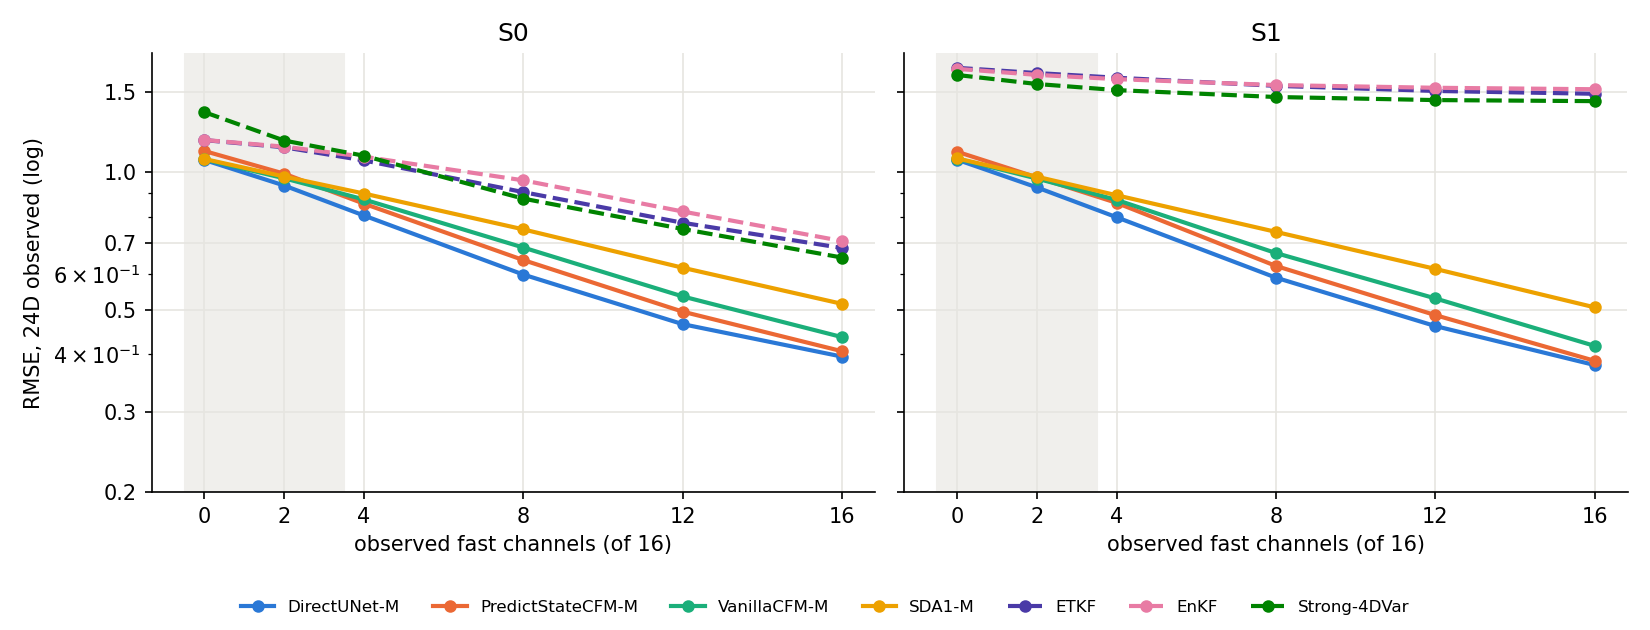
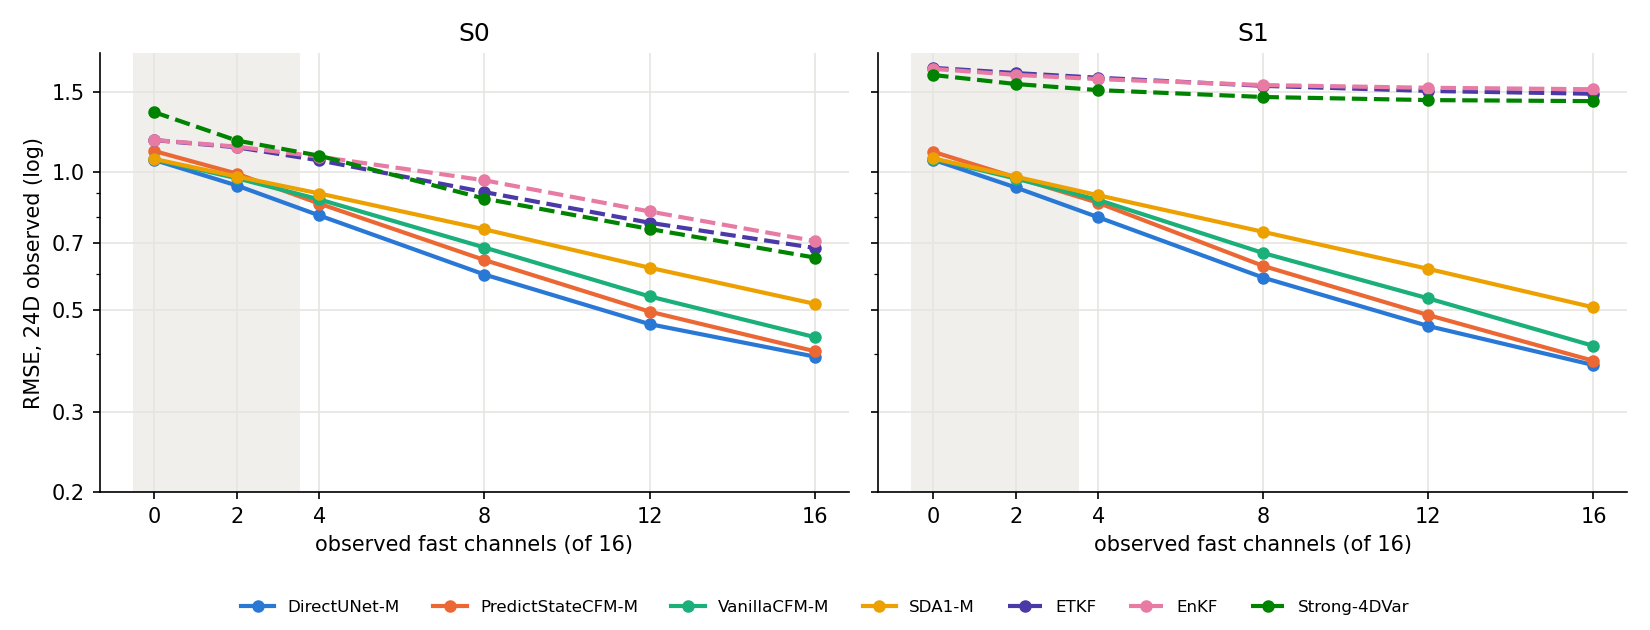
docs(l96): finalize extended benchmark report (3-seed 1200-epoch rows, 1200-epoch-mean hybrid)

diff --git a/reports/l96/generate_l96_benchmark_extended_report.py b/reports/l96/generate_l96_benchmark_extended_report.py
@@ -438,7 +438,10 @@ def tuning_section(cache: dict) -> list[str]:
                                                          else '—' for g in gws) + " |")
         du12 = V / rg / "du_alone/L96B_directunet_monaiM_ep1200_seed1"
         if done(du12):
-            A.append(f"\nWith the 1200-epoch DirectUNet-M (alone {fmt(mean2(du12))}), SDA2-M prior:\n")
+            A.append(f"\nWith the 1200-epoch DirectUNet-M (alone {fmt(mean2(du12))}), SDA2-M prior. **tau0 0.05 is not a "
+                     "warm start**: the sampler snaps tau0 to its 10-step grid with `round(tau0 * N_outer)`, and 0.5 "
+                     "rounds to 0, so that row is plain SDA from noise at a far-too-low guidance weight (the tuned SDA "
+                     "weight is 25).\n")
             gws2 = ["1", "2", "5"]
             A += ["| tau0 | " + " | ".join(f"gw {g}" for g in gws2) + " |", "|" + "---|" * 4]
             for t in ("0.05", "0.1", "0.2"):
@@ -490,11 +493,15 @@ def findings(da, learned) -> list[str]:
     row = {(r["group"], r["label"]): r for r in learned}
     m = lambda g, lab, t, c="s0": None if row[(g, lab)][t] is None else float(row[(g, lab)][t][c]["rmse"].mean())  # noqa: E731
     best_da = min(da, key=lambda r: r["reg"]["s0"]["rmse"].mean())
-    h = ("Hybrid (tau0 0.1, gw 2)", "DirectUNet-M(400 ep) -> SDA2-M")
+    h4 = ("Hybrid (tau0 0.1, gw 2)", "DirectUNet-M(400 ep) -> SDA2-M")
+    h12 = ("Hybrid (tau0 0.1, gw 2)", "DirectUNet-M(1200 ep) -> SDA2-M")
+    h = h12 if row[h12]["reg"] is not None and row[h12]["can"] is not None else h4
     A = ["## Findings\n"]
-    A.append(f"1. **Best scheme: the DirectUNet-M -> SDA2-M hybrid** (validation-selected tau0 0.1, gw 2): regular S0 "
-             f"{fmt(m(*h, 'reg'))}, random S0 {fmt(m(*h, 'can'))}, CRPS {fmt(row[h]['reg']['s0']['crps'])} / {fmt(row[h]['can']['s0']['crps'])}. "
-             f"Best DA on regular S0: {best_da['label']} {best_da['reg']['s0']['rmse'].mean():.3f}.")
+    A.append(f"1. **Best scheme: the DirectUNet-M -> SDA2-M hybrid** (validation-selected tau0 0.1, gw 2), with the "
+             f"{'1200' if h == h12 else '400'}-epoch DirectUNet-M as its mean: regular S0 {fmt(m(*h, 'reg'))}, random S0 "
+             f"{fmt(m(*h, 'can'))}, CRPS {fmt(row[h]['reg']['s0']['crps'])} / {fmt(row[h]['can']['s0']['crps'])} -- best RMSE and "
+             f"CRPS on both test sets (400-epoch mean: {fmt(m(*h4, 'reg'))} / {fmt(m(*h4, 'can'))}). A better mean carries "
+             f"straight through the SDA correction. Best DA on regular S0: {best_da['label']} {best_da['reg']['s0']['rmse'].mean():.3f}.")
     A.append("2. **The 400-epoch budget of the benchmark default is too short.** At 1200 epochs every family gains 9-19% "
              f"(regular S0: DirectUNet {fmt(m('Benchmark default, 400 ep', 'DirectUNet-M', 'reg'))} -> {fmt(m('Benchmark default, 1200 ep', 'DirectUNet-M', 'reg'))}, "
              f"PredictStateCFM {fmt(m('Benchmark default, 400 ep', 'PredictStateCFM-M', 'reg'))} -> {fmt(m('Benchmark default, 1200 ep', 'PredictStateCFM-M', 'reg'))}, "

diff --git a/reports/l96/outputs/l96_benchmark_extended.md b/reports/l96/outputs/l96_benchmark_extended.md
@@ -6,8 +6,8 @@ Follow-up to `l96_benchmark_default.md`, same inputs: the 200 P1 test windows on
 
 ## Findings
 
-1. **Best scheme: the DirectUNet-M -> SDA2-M hybrid** (validation-selected tau0 0.1, gw 2): regular S0 0.329, random S0 0.406, CRPS 0.153 / 0.184. Best DA on regular S0: ETKF 0.687.
-2. **The 400-epoch budget of the benchmark default is too short.** At 1200 epochs every family gains 9-19% (regular S0: DirectUNet 0.380 -> 0.340, PredictStateCFM 0.409 -> 0.345, VanillaCFM 0.434 -> 0.353), and the family gaps largely close; ~85% of the 3000-window DirectUNet gain is training length, not data.
+1. **Best scheme: the DirectUNet-M -> SDA2-M hybrid** (validation-selected tau0 0.1, gw 2), with the 1200-epoch DirectUNet-M as its mean: regular S0 0.310, random S0 0.382, CRPS 0.144 / 0.174 -- best RMSE and CRPS on both test sets (400-epoch mean: 0.329 / 0.406). A better mean carries straight through the SDA correction. Best DA on regular S0: ETKF 0.687.
+2. **The 400-epoch budget of the benchmark default is too short.** At 1200 epochs every family gains 9-19% (regular S0: DirectUNet 0.380 -> 0.340, PredictStateCFM 0.409 -> 0.345, VanillaCFM 0.434 -> 0.354), and the family gaps largely close; ~85% of the 3000-window DirectUNet gain is training length, not data.
 3. **Observation-count crossover at S0**: DA (ETKF) is best at <= 10 obs per window; from ~20 obs every learned scheme beats every DA baseline, and the gap grows with density. Under model error (S1) the learned schemes win at every density. PredictStateCFM / SDA are best when sparse, DirectUNet when dense; SDA and DirectUNet are complementary, which is why the hybrid works.
 4. **Fast channels**: no crossover -- learned beat DA at every k, including slow-only (k 0, below training range). The learned slow-variable error is flat (~0.2-0.3); all the k-dependence is in the fast variables. Under model error, more fast obs make DA's *slow* variables worse (biased slow-fast coupling).
 5. **Beyond the training range**: learned models are weak at 6 obs and degrade with 1000 obs (DirectUNet 0.17 -> 0.34 from 300 to 1000); VanillaCFM degrades least. Noise shifts are handled gracefully.
@@ -28,7 +28,7 @@ Per-window RMSE on the 24D observed space, **mean ± sd across the 200 windows**
 | Benchmark default, 400 ep | VanillaCFM-M | 3/3 | 0.434 ± 0.074 | 0.431 ± 0.072 | 0.543 ± 0.289 | 0.553 ± 0.263 | 1.25 | 0.006 |
 | Benchmark default, 1200 ep | DirectUNet-M | 3/3 | 0.340 ± 0.062 | 0.339 ± 0.063 | 0.450 ± 0.315 | 0.444 ± 0.269 | 1.32 | 0.002 |
 | Benchmark default, 1200 ep | PredictStateCFM-M | 3/3 | 0.345 ± 0.079 | 0.342 ± 0.080 | 0.452 ± 0.264 | 0.456 ± 0.238 | 1.31 | 0.002 |
-| Benchmark default, 1200 ep | VanillaCFM-M | 1/3 | 0.353 ± 0.080 | 0.349 ± 0.079 | 0.472 ± 0.286 | 0.477 ± 0.256 | 1.33 | — |
+| Benchmark default, 1200 ep | VanillaCFM-M | 3/3 | 0.354 ± 0.080 | 0.352 ± 0.080 | 0.471 ± 0.285 | 0.477 ± 0.257 | 1.33 | 0.002 |
 | Benchmark default, 3000 windows | DirectUNet-M | 1/1 | 0.334 ± 0.061 | 0.334 ± 0.061 | 0.447 ± 0.316 | 0.440 ± 0.270 | 1.34 | — |
 | SDA, gw 25 | SDA1-M | 3/3 | 0.501 ± 0.083 | 0.500 ± 0.083 | 0.612 ± 0.233 | 0.624 ± 0.229 | 1.22 | 0.001 |
 | SDA, gw 25 | SDA2-M | 3/3 | 0.500 ± 0.086 | 0.500 ± 0.086 | 0.605 ± 0.230 | 0.616 ± 0.224 | 1.21 | 0.004 |
@@ -37,7 +37,7 @@ Per-window RMSE on the 24D observed space, **mean ± sd across the 200 windows**
 | SDA, gw 20 | SDA1-L | 1/1 | 0.534 ± 0.095 | 0.533 ± 0.095 | 0.636 ± 0.233 | 0.648 ± 0.230 | 1.19 | — |
 | Hybrid (tau0 0.1, gw 2) | DirectUNet-M(400 ep) -> SDA2-M | 3/3 | 0.329 ± 0.063 | 0.327 ± 0.063 | 0.406 ± 0.224 | 0.411 ± 0.207 | 1.23 | 0.002 |
 | Hybrid (tau0 0.1, gw 2) | DirectUNet-M(400 ep) -> SDA1-M | 3/3 | 0.333 ± 0.063 | 0.331 ± 0.063 | 0.422 ± 0.251 | 0.423 ± 0.225 | 1.27 | 0.002 |
-| Hybrid (tau0 0.1, gw 2) | DirectUNet-M(1200 ep) -> SDA2-M | 0/3 | pending | pending | pending | pending | — | — |
+| Hybrid (tau0 0.1, gw 2) | DirectUNet-M(1200 ep) -> SDA2-M | 3/3 | 0.310 ± 0.059 | 0.308 ± 0.061 | 0.382 ± 0.218 | 0.384 ± 0.197 | 1.23 | 0.000 |
 | P1 fixed obs (reference) | DirectUNet-M | 1/1 | 0.470 ± 0.073 | 0.471 ± 0.072 | 1.547 ± 0.254 | 1.513 ± 0.244 | 3.29 | — |
 | P1 fixed obs (reference) | PredictStateCFM-M | 1/1 | 0.358 ± 0.072 | 0.355 ± 0.074 | 0.998 ± 0.324 | 0.977 ± 0.290 | 2.78 | — |
 | P1 fixed obs (reference) | VanillaCFM-M | 1/1 | 0.344 ± 0.073 | 0.339 ± 0.072 | 1.028 ± 0.339 | 1.016 ± 0.311 | 2.98 | — |
@@ -51,7 +51,7 @@ Per-window RMSE on the 24D observed space, **mean ± sd across the 200 windows**
 | Benchmark default, 400 ep | PredictStateCFM-M | 0.191 (0.189) | 0.243 (0.247) | 0.53 (0.54) | 0.52 (0.50) |
 | Benchmark default, 400 ep | VanillaCFM-M | 0.201 (0.200) | 0.251 (0.257) | 0.62 (0.62) | 0.59 (0.57) |
 | Benchmark default, 1200 ep | PredictStateCFM-M | 0.157 (0.156) | 0.208 (0.212) | 0.46 (0.46) | 0.45 (0.43) |
-| Benchmark default, 1200 ep | VanillaCFM-M | 0.157 (0.155) | 0.217 (0.221) | 0.54 (0.55) | 0.51 (0.49) |
+| Benchmark default, 1200 ep | VanillaCFM-M | 0.158 (0.157) | 0.218 (0.222) | 0.53 (0.54) | 0.50 (0.48) |
 | SDA, gw 25 | SDA1-M | 0.255 (0.254) | 0.312 (0.320) | 0.42 (0.43) | 0.39 (0.37) |
 | SDA, gw 25 | SDA2-M | 0.239 (0.239) | 0.287 (0.291) | 0.54 (0.55) | 0.51 (0.51) |
 | SDA, gw 25 | SDA3-fix-M | 0.249 (0.249) | 0.303 (0.309) | 0.46 (0.46) | 0.42 (0.41) |
@@ -59,6 +59,7 @@ Per-window RMSE on the 24D observed space, **mean ± sd across the 200 windows**
 | SDA, gw 20 | SDA1-L | 0.273 (0.273) | 0.327 (0.335) | 0.40 (0.40) | 0.38 (0.37) |
 | Hybrid (tau0 0.1, gw 2) | DirectUNet-M(400 ep) -> SDA2-M | 0.153 (0.152) | 0.184 (0.187) | 0.54 (0.54) | 0.50 (0.48) |
 | Hybrid (tau0 0.1, gw 2) | DirectUNet-M(400 ep) -> SDA1-M | 0.157 (0.156) | 0.207 (0.206) | 0.53 (0.53) | 0.44 (0.43) |
+| Hybrid (tau0 0.1, gw 2) | DirectUNet-M(1200 ep) -> SDA2-M | 0.144 (0.143) | 0.174 (0.174) | 0.56 (0.57) | 0.51 (0.50) |
 | P1 fixed obs (reference) | PredictStateCFM-M | 0.173 (0.173) | 0.581 (0.565) | 0.40 (0.40) | 0.25 (0.24) |
 | P1 fixed obs (reference) | VanillaCFM-M | 0.157 (0.155) | 0.612 (0.604) | 0.53 (0.54) | 0.26 (0.26) |
 
@@ -252,13 +253,13 @@ regular: DirectUNet-M(400 ep) alone 0.393
 | A3_sda2_monaiM_l96 | 0.5 | — | — | 0.361 | 0.367 | 0.371 | 0.384 |
 | A3_sda2_monaiM_l96 | 0.7 | — | — | 0.371 | 0.374 | 0.377 | 0.390 |
 
-With the 1200-epoch DirectUNet-M (alone 0.352), SDA2-M prior:
+With the 1200-epoch DirectUNet-M (alone 0.352), SDA2-M prior. **tau0 0.05 is not a warm start**: the sampler snaps tau0 to its 10-step grid with `round(tau0 * N_outer)`, and 0.5 rounds to 0, so that row is plain SDA from noise at a far-too-low guidance weight (the tuned SDA weight is 25).
 
 | tau0 | gw 1 | gw 2 | gw 5 |
 |---|---|---|---|
-| 0.05 | — | — | — |
-| 0.1 | — | — | — |
-| 0.2 | — | — | — |
+| 0.05 | 1.629 | 1.475 | 1.033 |
+| 0.1 | 0.315 | 0.317 | 0.349 |
+| 0.2 | 0.315 | 0.318 | 0.345 |
 
 rlayout: DirectUNet-M(400 ep) alone 0.507
 
@@ -274,6 +275,14 @@ rlayout: DirectUNet-M(400 ep) alone 0.507
 | A3_sda2_monaiM_l96 | 0.3 | 0.437 | 0.435 | 0.435 | 0.453 | 0.465 | 0.478 |
 | A3_sda2_monaiM_l96 | 0.5 | — | — | 0.457 | 0.467 | 0.477 | 0.491 |
 | A3_sda2_monaiM_l96 | 0.7 | — | — | 0.476 | 0.479 | 0.487 | 0.502 |
+
+With the 1200-epoch DirectUNet-M (alone 0.459), SDA2-M prior. **tau0 0.05 is not a warm start**: the sampler snaps tau0 to its 10-step grid with `round(tau0 * N_outer)`, and 0.5 rounds to 0, so that row is plain SDA from noise at a far-too-low guidance weight (the tuned SDA weight is 25).
+
+| tau0 | gw 1 | gw 2 | gw 5 |
+|---|---|---|---|
+| 0.05 | 1.628 | 1.476 | 1.061 |
+| 0.1 | 0.384 | 0.384 | 0.418 |
+| 0.2 | 0.388 | 0.390 | 0.422 |
 
 **Flow calibration** (benchmark default seed 1; S0 RMSE / CRPS / spread-over-RMSE)
 
